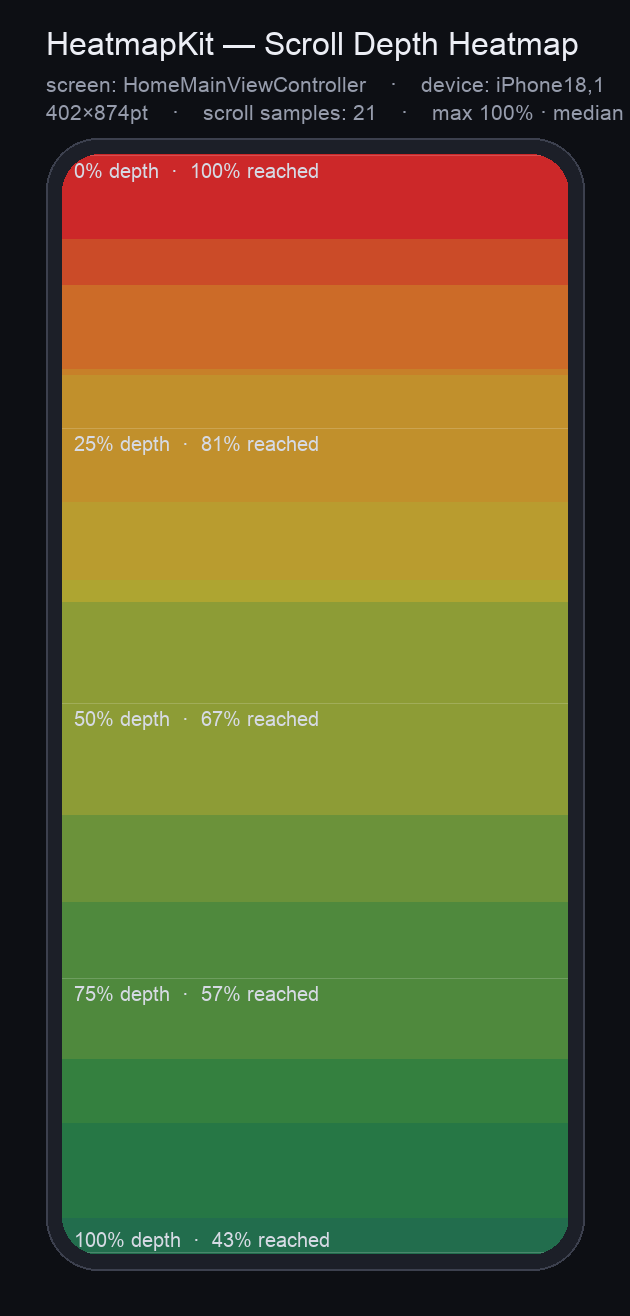
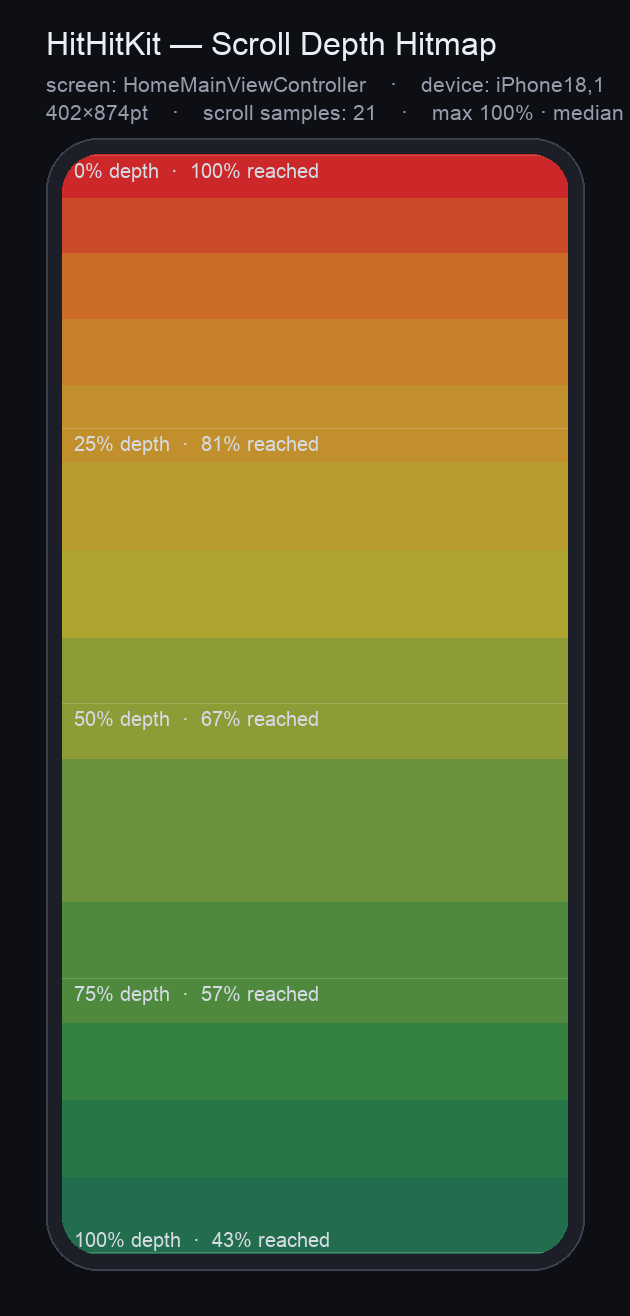
docs: README 예시 이미지를 HitHitKit 브랜딩으로 재생성
앞 커밋의 PNG는 리브랜딩 이전(2026-07-01 23:26)에 렌더링된 것으로 제목이
"HeatmapKit — Scroll Depth Heatmap"이었다. hithitkit-server의 리브랜딩 커밋
485a21a(2026-07-02 14:18)이 그보다 15시간 뒤라 옛 이름이 박혀 있었다.

현재 렌더러는 이미 "HitHitKit — ... Hitmap"을 출력하므로 렌더러 수정 없이
다시 렌더링해 교체한다.

원본 이벤트 데이터는 남아있지 않아 복원했다. 렌더러의 도달률 계산이
reached(frac) = 1 - (depth < frac 개수)/n 이므로 원본 이미지에 적힌 5개 값
(0%→100%, 25%→81%, 50%→67%, 75%→57%, 100%→43%)을 만족하는 깊이 분포를
역산할 수 있다. 21건 = [0,.25) 4 · [.25,.5) 3 · [.5,.75) 2 · [.75,1) 3 · 1.0 9건
→ 다섯 라벨이 원본과 정확히 일치한다.

탭 좌표는 원본 이미지의 점 위치를 읽은 추정값이다(정확한 원본 좌표는 복원 불가).
겹침 분포를 조정해 상단=넓은 붉은 영역 / 중앙=붉은 코어 / 하단=초록 코어라는
원본의 강도 관계를 재현했다.

- 데이터가 원본 세션이 아니므로 README에 "샘플 데이터"임을 명시
- 해상도는 원본과 동일(630×1316)

diff --git a/README.md b/README.md
@@ -42,8 +42,8 @@ HitHitKit은 **수집 레이어만** 직접 소유한다. 좌표·화면이름·
 | <img src="docs/images/example-scroll-depth.png" alt="화면 깊이별 도달 비율 히트맵" width="330"> | <img src="docs/images/example-tap-scroll-combined.png" alt="탭 위치와 스크롤 깊이를 겹친 히트맵" width="330"> |
 | 각 깊이에 **도달한 사용자 비율**. 맨 위(0%)는 100%가 보지만 끝(100%)까지 내려간 건 **43%뿐** → 하단 콘텐츠가 절반 이상에게 노출되지 않는다는 뜻 | 따뜻한 점 = **탭이 몰린 위치**, 차가운 배경 = 스크롤 깊이. "어디를 누르나"와 "어디까지 보나"를 한 장에서 대조 |
 
-두 그림 모두 `screen: HomeMainViewController` 한 화면 · `iPhone18,1`(402×874pt) ·
-**탭 10건 / 스크롤 샘플 21건**으로 그린 것이다.
+두 그림 모두 **샘플 데이터** 한 화면(`screen: HomeMainViewController` · `iPhone18,1` 402×874pt) ·
+**탭 10건 / 스크롤 샘플 21건**으로 렌더링한 것이다.
 `x`·`y`·`scrollDepth`가 0~1로 정규화돼 있고 `screenW/H`·`device`·`orientation`이 함께 실려 오므로,
 **여러 기기의 데이터를 섞어도 한 장에 합칠 수 있다.**
 
